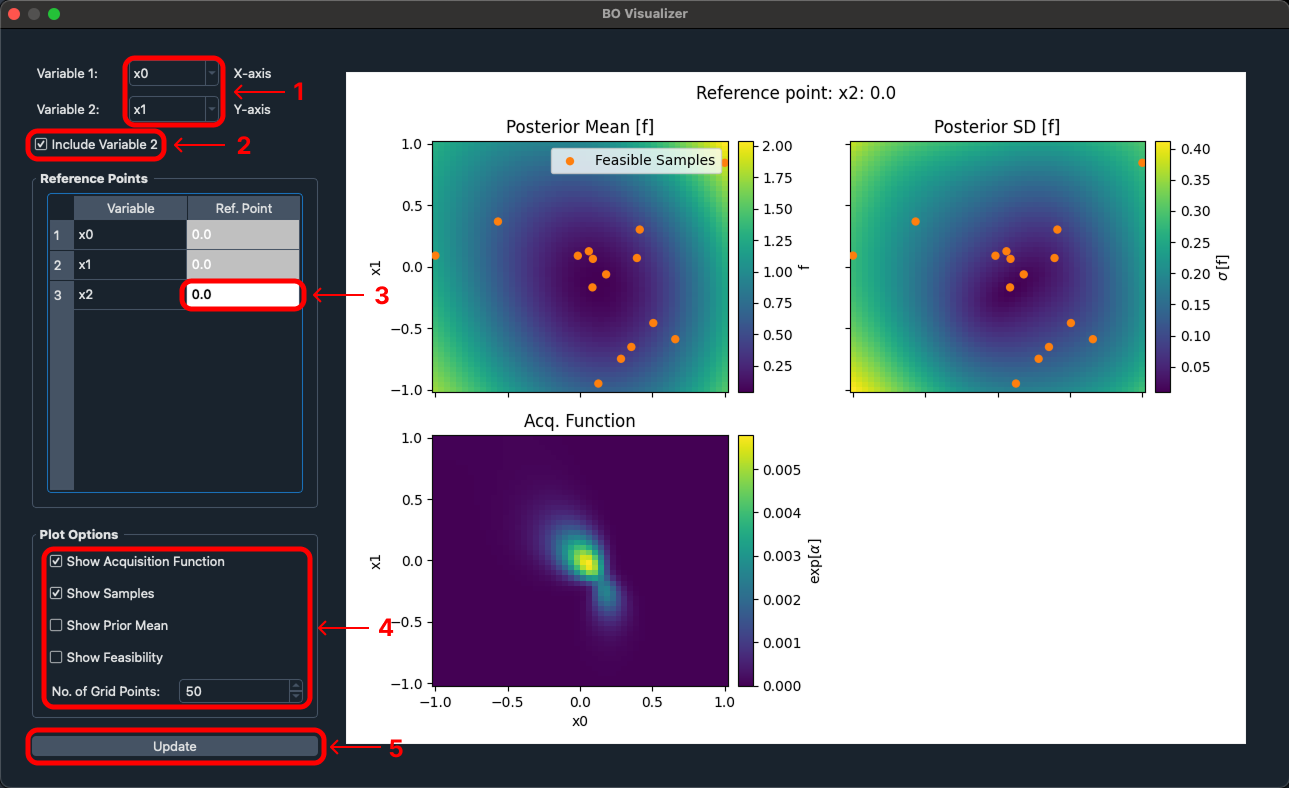
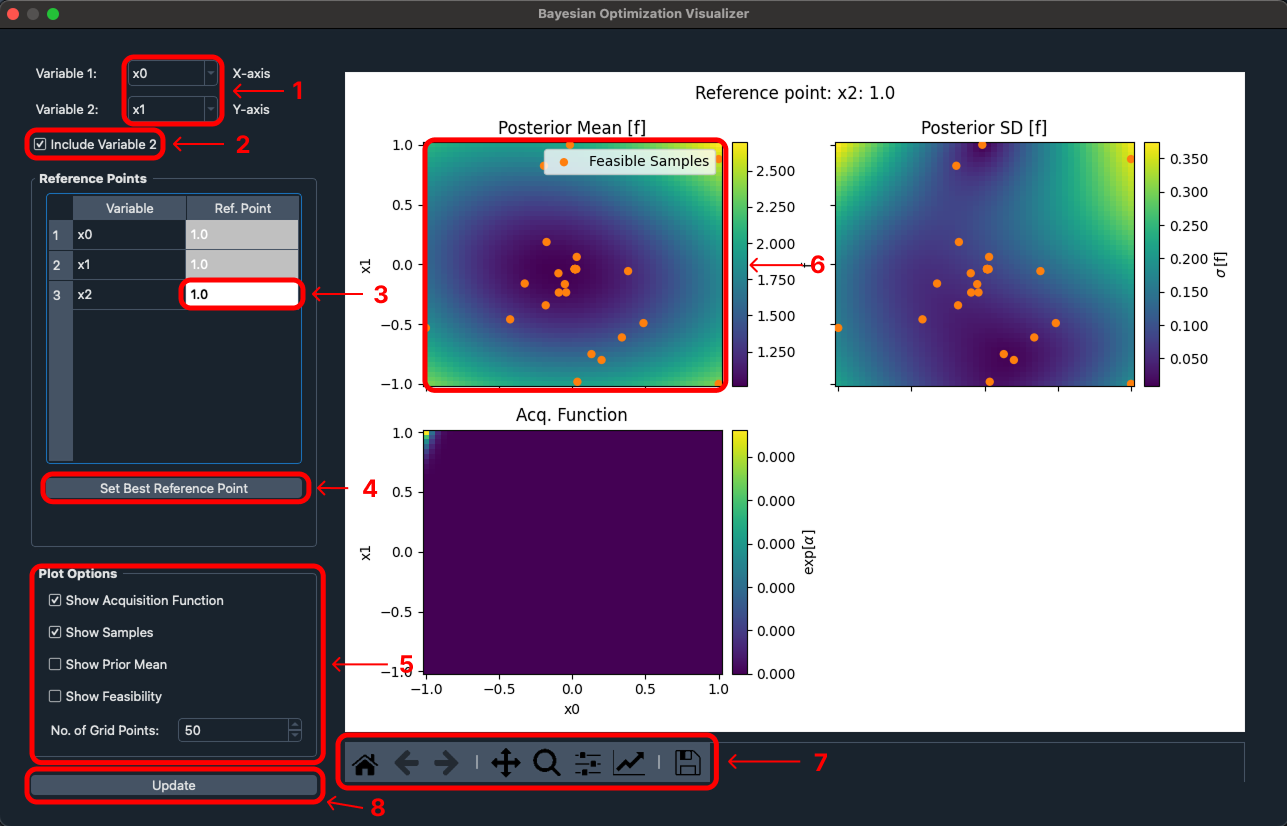
Updated the extension images and both docs to reflect the interactive chart additions

diff --git a/docs/extensions/pf-extension.md b/docs/extensions/pf-extension.md
@@ -10,7 +10,7 @@ The Pareto front viewer extension allows for an interactive graphical interface 
 
 ## Usage
 
-The extension can be used both statically and dynamically during or after a Badger optimization run. When used during an Badger optimization, the plots will update at a set interval in real time according to the variables and plot options set. Any plot options, reference points, and variables are saved throughout the use of that instance of the Pareto front viewer extension and are lost when the window is closed.
+The extension can be used both statically and dynamically during or after a Badger optimization run. When used during a Badger optimization, the plots will update at a set interval in real time according to the variables and plot options set. Any plot options, reference points, and variables are saved throughout the use of that instance of the Pareto front viewer extension and are lost when the window is closed.
 
 ## Constraints
 
@@ -45,16 +45,16 @@ Description:
 
 **1** - Change the variables or objectives that are being plotted by the X and Y axes within the extension depending on the selected type of plot.
 
-**2** - To only show the data points that are included in the Pareto front, you can enable the "Show only Pareto Front" option and the charts will update accordingly.
+**2** - To only show the data points that are included in the Pareto front, you can enable the "Show only Pareto Front" option and the charts will update to show those data points.
 
-**3** - There are two separate charts that display the Pareto front in different ways: one for the objective space and one for the variable space. When selecting either of these charts through the tabs at the top of the extension, the corresponding data will be displayed and the axes will update accordingly.
+**3** - There are two separate charts that visualize the Pareto front data in different ways: one in an objective space and one in the variable space. When selecting either of these charts through the tabs at the top of the extension, the corresponding data will be displayed. The X and Y axes plotted within the chart will update automatically according to the selected chart type.
 
-**4** - The Pareto front charts within the extension are interactive through mouse inputs and have can display additional information.
+**4** - The charts within the extension are interactive through mouse inputs and can display additional information.
 
-The following actions are as follows:
+The possible actions are as follows:
 
-- `Left Click` - Select a data point to view both its coordinate values in the selected space and its index in the optimization run.
-- `Right Click` or `Middle Click` - Will reset the view to its default state.
+- `Left Click` - Select a data point to view both the coordinate values in the selected space and the index of the iteration that the data point corresponds to within the optimization run.
+- `Right Click` or `Middle Click` - Will reset the view to the default state.
 - `Scroll` - Zoom in and out of the chart.
 
 **5** - For additional interaction options, you can also use the Matplotlib navigation toolbar to modify the current view or export the current plot.
@@ -63,6 +63,6 @@ The following actions are as follows:
 
 ### Charts explanation
 
-The leftmost chart is able to visualize the optimization run values in either the objective space or the variable space, depending on the selected tab. When the objective space tab is selected, the chart will display the values of the objectives being optimized. When the variable space tab is selected, the chart will display the values of the input variables. For both of the charts, each of the data points are color-coded based on the index of the corresponding optimization run. When the "Show only Pareto Front" option is enabled, the chart will only display the data points that are part of the Pareto front in the selected space.
+The leftmost chart is able to visualize the optimization run data in either the objective space or the variable space, depending on the selected tab. When the objective space tab is selected, the chart will display the values of the objectives selected for each axes as the optimization progressed. When the variable space tab is selected, the chart will display the same information for the input variables. For both of the charts, each of the data points are color-coded based on the index of the corresponding iteration within the optimization run. When the "Show only Pareto Front" option is enabled, the chart will only display the data points that are directly a part of the Pareto front in the selected space.
 
-The rightmost chart is a plot of the hypervolume as it evolves over the course of the optimization run. The hypervolume is a measure of the volume of the space covered by the Pareto front and is an important metric for multi-objective optimization.
+The rightmost chart is a plot of the hypervolume as it evolves over the course of the optimization run. The hypervolume is a measure of the volume of the space covered by the Pareto front.

diff --git a/docs/extensions/bo-extension.md b/docs/extensions/bo-extension.md
@@ -10,7 +10,7 @@ The Bayesian optimization visualizer extension allows for an interactive graphic
 
 ## Usage
 
-The extension can be used both statically and dynamically during or after a Badger optimization run. When used during an Badger optimization, the plots will update at a set interval in real time according to the variables and plot options set. Any plot options, reference points, and variables are saved throughout the use of that instance of the Bayesian optimization visualizer extension and are lost when the window is closed.
+The extension can be used both statically and dynamically during or after a Badger optimization run. When used during a Badger optimization, the plots will update at a set interval in real time according to the variables and plot options set. Any plot options, reference points, and variables are saved throughout the use of that instance of the Bayesian optimization visualizer extension and are lost when the window is closed.
 
 ## Constraints
 
@@ -51,7 +51,9 @@ Description:
 
 - **Note:** In >2D spaces the reference point will display the input space value for axes that are not visualized on the plot
 
-**4** - If you wish to change what is information being displayed you can do so by modifying the various plot options
+**4** - The set best reference point button will set the reference point within the extension to the current best observed point in the optimization run according to Badger.
+
+**5** - If you wish to change what is information being displayed you can do so by modifying the various plot options
 
 - **Acquisition function** - value is maximized to select the next point to observe during Bayesian optimization.
   - **Note:** acquisition function is often exponentiated for visualization purposes.
@@ -61,11 +63,22 @@ Description:
 
 - **Prior Mean (Optional)** -
 
-- **Feasibility (Optional)** - the probability that all of the constraints are satisfied at a given location
+- **Feasibility (Optional)** - the probability that all the constraints are satisfied at a given location
 
 - **No. of grid points** - the number of mesh points used to visualize the model value, higher number of points produces a higher resolution visualization, but at the cost of increased computation time
 
-**5** - The Bayesian optimization visualizer extension will automatically update the charts reactively upon any changes however, if at any point you believe the plots are out of sync then you can forcefully update the plots using the update button
+**6** - The charts within the extension are interactive through mouse inputs and can display additional information.
+
+The possible actions are as follows:
+
+<!-- - `Left Click` - Select a data point to view both its coordinate values in the selected space and its index in the optimization run. -->
+- `Right Click` - Will allow you to set the reference point based on the current mouse position.
+- `Middle Click` - Will reset the view and reference points to their default states.
+- `Scroll` - Zoom in and out of the chart.
+
+**7** - For additional interaction options, you can also use the Matplotlib navigation toolbar to modify the current view or export the current plot.
+
+**8** - The Bayesian optimization visualizer extension will automatically update the charts reactively upon any changes however, if at any point you believe the plots are out of sync then you can forcefully update the plots using the update button
 
 ### Charts explanation
 
